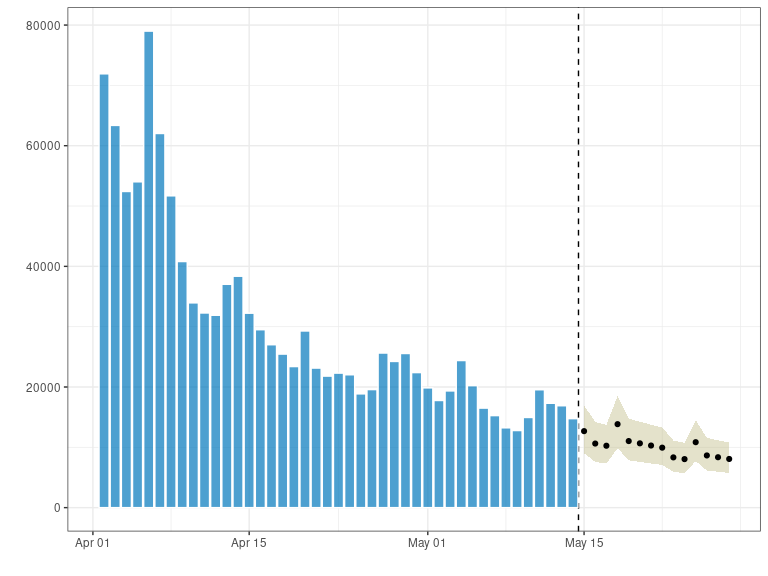
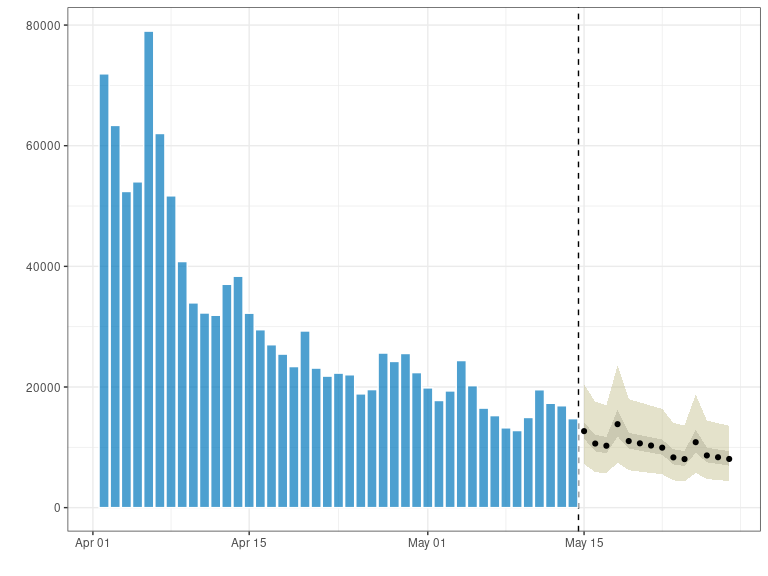
not using ciTools for intervals

Changed region(s): [[0.75, 0.625, 0.9688, 0.8438]]

diff --git a/README.md b/README.md
@@ -79,40 +79,23 @@ pred_data <- select(dat[[1]], date, day , weekday)
 
 fitted_model <- fit(model, fitting_data)
 
-# prediction intervals
+# confidence and prediction intervals
 pred <- predict(fitted_model, pred_data)
 glimpse(pred)
 #> Rows: 14
-#> Columns: 6
+#> Columns: 8
 #> $ date       <date> 2020-05-15, 2020-05-16, 2020-05-17, 2020-05-18, 2020-05-1…
 #> $ day        <int> 58, 59, 60, 61, 62, 63, 64, 65, 66, 67, 68, 69, 70, 71
 #> $ weekday    <fct> rest_of_week, weekend, weekend, monday, rest_of_week, rest…
 #> $ pred       <dbl> 12682.369, 10624.994, 10261.995, 13839.651, 11036.030, 106…
-#> $ `lower-pi` <dbl> 9027, 7562, 7303, 9852, 7855, 7586, 7327, 7076, 5927, 5725…
-#> $ `upper-pi` <dbl> 16948, 14200, 13715, 18494, 14749, 14245, 13759, 13289, 11…
+#> $ `lower-ci` <dbl> 11427.692, 9337.442, 8993.399, 11808.605, 9818.975, 9452.5…
+#> $ `upper-ci` <dbl> 14074.800, 12090.088, 11709.538, 16220.030, 12403.937, 120…
+#> $ `lower-pi` <dbl> 7221, 5899, 5682, 7461, 6203, 5972, 5749, 5534, 4530, 4362…
+#> $ `upper-pi` <dbl> 20424, 17545, 16993, 23536, 18000, 17442, 16902, 16379, 14…
 plot(pred, "date", fitted_data = fitting_data, fitted_y = "count")
 ```
 
 <img src="man/figures/README-unnamed-chunk-1-1.png" style="display: block; margin: auto;" />
-
-``` r
-
-# prediction intervals
-conf <- confidence(fitted_model, pred_data)
-glimpse(conf)
-#> Rows: 14
-#> Columns: 6
-#> $ date       <date> 2020-05-15, 2020-05-16, 2020-05-17, 2020-05-18, 2020-05-1…
-#> $ day        <int> 58, 59, 60, 61, 62, 63, 64, 65, 66, 67, 68, 69, 70, 71
-#> $ weekday    <fct> rest_of_week, weekend, weekend, monday, rest_of_week, rest…
-#> $ pred       <dbl> 12682.369, 10624.994, 10261.995, 13839.651, 11036.030, 106…
-#> $ `lower-ci` <dbl> 11389.656, 9298.919, 8955.498, 11748.777, 9782.324, 9416.3…
-#> $ `upper-ci` <dbl> 14121.804, 12140.175, 11759.094, 16302.627, 12450.410, 120…
-plot(conf, date_axis = "date", y = "pred",
-     fitted_data = fitting_data, fitted_y = "count")
-```
-
-<img src="man/figures/README-unnamed-chunk-1-2.png" style="display: block; margin: auto;" />
 
 ### Model selection
 
@@ -158,7 +141,7 @@ auto_select$leaderboard
 #> # A tibble: 5 x 4
 #>   model          huber_loss   mae  rmse
 #>   <chr>               <dbl> <dbl> <dbl>
-#> 1 brms_complex         18.1  18.6  18.6
+#> 1 brms_complex         18.3  18.8  18.8
 #> 2 glm_poisson          21.2  21.7  21.7
 #> 3 negbin_complex       22.8  23.3  23.3
 #> 4 lm_complex           26.2  26.7  26.7
